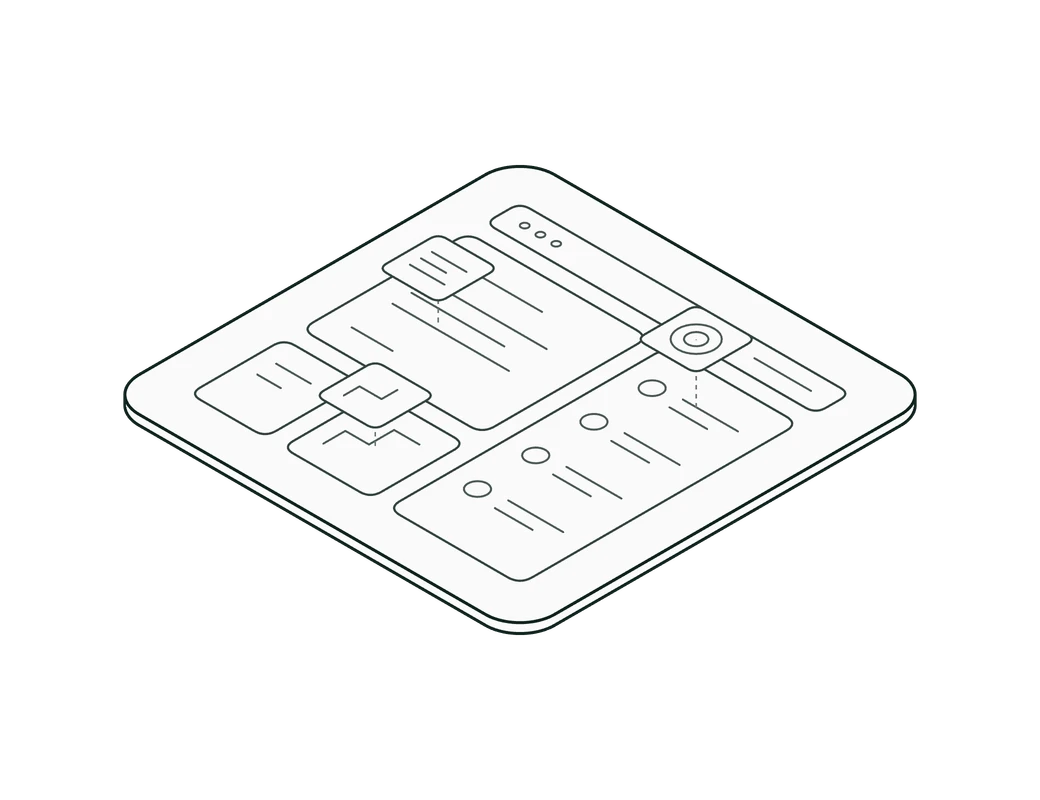
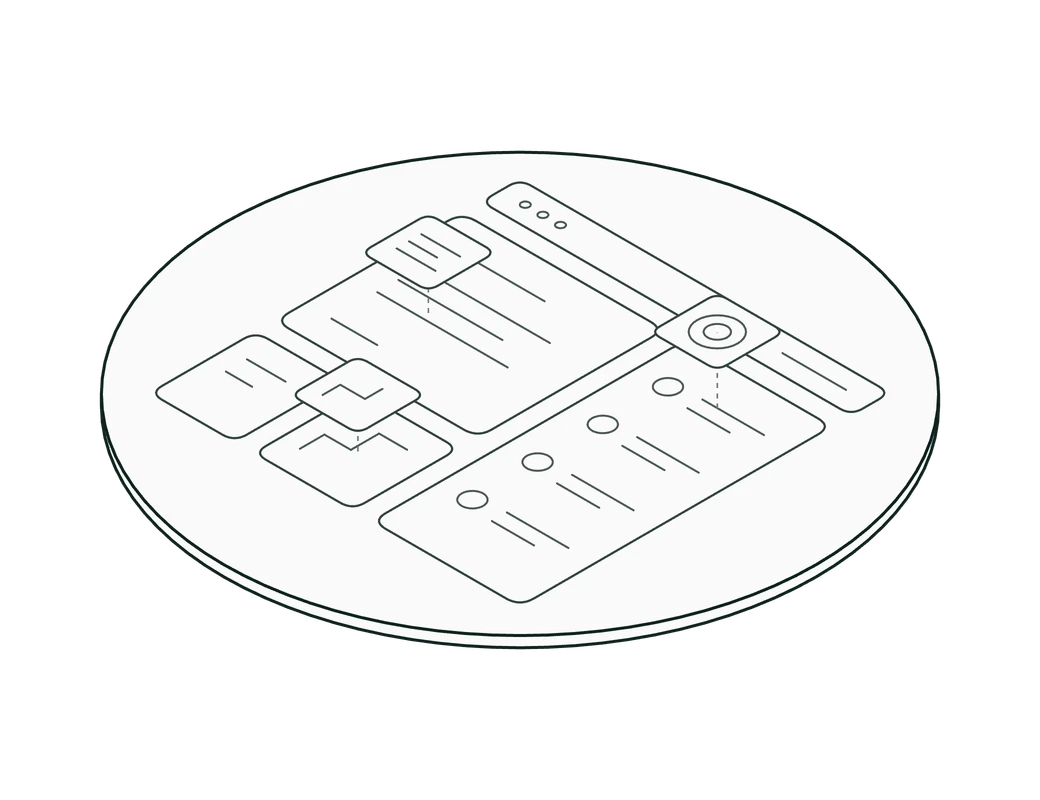
Make operating model planes circular

diff --git a/src/components/home/operating-model-three.ts b/src/components/home/operating-model-three.ts
@@ -2,8 +2,8 @@ import { gsap } from 'gsap';
 import { ScrollTrigger } from 'gsap/ScrollTrigger';
 import { ScrollSmoother } from 'gsap/ScrollSmoother';
 import {
-  Color, DynamicDrawUsage, ExtrudeGeometry, InstancedMesh, Matrix4, Mesh, MeshBasicMaterial, OrthographicCamera,
-  Path, Raycaster, Scene, Shape, ShapeGeometry, Vector2, Vector3, WebGLRenderer,
+  CircleGeometry, Color, DynamicDrawUsage, ExtrudeGeometry, InstancedMesh, Matrix4, Mesh, MeshBasicMaterial, OrthographicCamera,
+  Path, Raycaster, Scene, Shape, Vector2, Vector3, WebGLRenderer,
 } from 'three';
 import { Line2 } from 'three/addons/lines/Line2.js';
 import { LineGeometry } from 'three/addons/lines/LineGeometry.js';
@@ -33,7 +33,7 @@ type DiagramOptions = {
   scroll?: boolean;
   /** Extra pinned scroll after the last layer, in viewport heights, for exit transitions. */
   tail?: number;
-  /** Show one plane only (0 waveform, 1 workflow, 2 interface, 3 logo) for still renders. */
+  /** Show one plane only (0 dots, 1 workflow, 2 interface, 3 logo) for still renders. */
   isolate?: number;
   /** Keep the drawing buffer so the canvas can be exported (toDataURL). */
   capture?: boolean;
@@ -63,8 +63,8 @@ export function mountOperatingModel(element: HTMLElement, options: DiagramOption
   camera.position.set(6, 6, 6);
   camera.lookAt(0, 0, 0);
 
-  const halfSize = 1.32;
-  const fillet = .22;
+  const planeRadius = 1.68;
+  const perimeterRadius = planeRadius + .18;
   const thickness = .06;
   const material = new LineMaterial({ color: colors.ink, linewidth: 1.5, depthTest: true, depthWrite: true, alphaToCoverage: false, transparent: false });
   const fill = new MeshBasicMaterial({
@@ -74,23 +74,15 @@ export function mountOperatingModel(element: HTMLElement, options: DiagramOption
     polygonOffset: true, polygonOffsetFactor: 4, polygonOffsetUnits: 4,
   });
   const shape = new Shape();
-  const s = halfSize, r = fillet;
-  shape.moveTo(-s + r, -s);
-  shape.lineTo(s - r, -s);
-  shape.absarc(s - r, -s + r, r, -Math.PI / 2, 0, false);
-  shape.lineTo(s, s - r);
-  shape.absarc(s - r, s - r, r, 0, Math.PI / 2, false);
-  shape.lineTo(-s + r, s);
-  shape.absarc(-s + r, s - r, r, Math.PI / 2, Math.PI, false);
-  shape.lineTo(-s, -s + r);
-  shape.absarc(-s + r, -s + r, r, Math.PI, Math.PI * 1.5, false);
+  shape.absarc(0, 0, planeRadius, 0, Math.PI * 2, false);
   shape.closePath();
 
-  const solid = new ExtrudeGeometry(shape, { depth: thickness, bevelEnabled: false, curveSegments: 24 });
+  const extrusion = { depth: thickness, bevelEnabled: false, curveSegments: 48 };
+  const solid = new ExtrudeGeometry(shape, extrusion);
   solid.rotateX(-Math.PI / 2);
   solid.translate(0, -thickness / 2, 0);
   const cutoutShape = shape.clone();
-  const logoScale = halfSize * 2 * .8 / 440;
+  const logoScale = planeRadius * 1.25 / 440;
   const logoContours = new SVGLoader().parse(logoMarkSvg).paths
     .flatMap(path => SVGLoader.createShapes(path))
     .map(mark => mark.getPoints(48).map(point => ({
@@ -108,7 +100,7 @@ export function mountOperatingModel(element: HTMLElement, options: DiagramOption
     hole.closePath();
     cutoutShape.holes.push(hole);
   });
-  const cutoutSolid = new ExtrudeGeometry(cutoutShape, { depth: thickness, bevelEnabled: false, curveSegments: 24 });
+  const cutoutSolid = new ExtrudeGeometry(cutoutShape, extrusion);
   cutoutSolid.rotateX(-Math.PI / 2);
   cutoutSolid.translate(0, -thickness / 2, 0);
 
@@ -152,36 +144,28 @@ export function mountOperatingModel(element: HTMLElement, options: DiagramOption
     outlines.push({ line, kind, surface, fade: { opacity: index === 3 ? 1 : .18, lift: 0 } });
   }
 
-  const iris = getComputedStyle(element).getPropertyValue('--palette-iris').trim() || '#A77BCA';
-  // A voice waveform on the infrastructure layer uses the same visual cue as the PyAI demo.
-  const barShape = new Shape();
-  barShape.absarc(0, -.29, .21, Math.PI, 2 * Math.PI, false);
-  barShape.absarc(0, .29, .21, 0, Math.PI, false);
-  barShape.closePath();
-  const waveGeometry = new ShapeGeometry(barShape, 8);
-  waveGeometry.rotateX(-Math.PI / 2);
-  const waveMaterial = new MeshBasicMaterial({ color: colors.ink, depthTest: true, depthWrite: true });
-  const amplitudes = [.09, .17, .28, .21, .38, .63, .90, .53, .33, .46, .68, .86, 1, .58, .35, .63, .82, .44, .29, .51, .66, .32, .21, .13, .07];
-  const waveform = new InstancedMesh(waveGeometry, waveMaterial, amplitudes.length);
-  const barTransform = new Matrix4();
-  waveform.visible = false;
-  waveform.position.set(.15, 0, .23);
-  waveform.instanceMatrix.setUsage(DynamicDrawUsage);
-  waveform.renderOrder = 1;
-  outlines[0].surface.add(waveform);
-
-  function updateWaveform(pulse = -1) {
-    amplitudes.forEach((height, index) => {
-      const progress = index / (amplitudes.length - 1);
-      const lift = 1 + .24 * Math.exp(-(((progress - pulse) / .13) ** 2));
-      barTransform.makeScale(.13, 1, height * 1.22 * lift);
-      barTransform.setPosition((progress - .5) * 1.96, thickness / 2 + .003, 0);
-      waveform.setMatrixAt(index, barTransform);
-    });
-    waveform.instanceMatrix.needsUpdate = true;
+  // Surface-mounted dots share the bottom slab's transform and depth occlusion.
+  const dotGeometry = new CircleGeometry(.012, 20);
+  dotGeometry.rotateX(-Math.PI / 2);
+  const dotMaterial = new MeshBasicMaterial({ color: colors.ink, depthTest: true, depthWrite: true });
+  const dotGrid = new InstancedMesh(dotGeometry, dotMaterial, 13 * 13);
+  dotGrid.visible = false;
+  dotGrid.instanceMatrix.setUsage(DynamicDrawUsage);
+  const dotTransform = new Matrix4();
+  const dotPositions: { x: number; z: number; radius: number }[] = [];
+  for (let row = 0; row < 13; row++) {
+    for (let column = 0; column < 13; column++) {
+      const x = (column - 6) * .175, z = (row - 6) * .175;
+      dotPositions.push({ x, z, radius: Math.hypot(x, z) });
+      dotTransform.makeTranslation(x, thickness / 2 + .001, z);
+      dotGrid.setMatrixAt(row * 13 + column, dotTransform);
+    }
   }
-  updateWaveform();
+  dotGrid.instanceMatrix.needsUpdate = true;
+  dotGrid.renderOrder = 1;
+  outlines[0].surface.add(dotGrid);
 
+  const iris = getComputedStyle(element).getPropertyValue('--palette-iris').trim() || '#A77BCA';
   const flowPaths = createFlowPaths(outlines[1].surface, thickness, iris, colors);
   const uiDiagram = createUiDiagram(outlines[2].surface, thickness, colors);
 
@@ -204,14 +188,16 @@ export function mountOperatingModel(element: HTMLElement, options: DiagramOption
   perimeter.visible = false;
   scene.add(perimeter);
   let perimeterLength = 0;
+  const rimSegments = 96;
+  const perimeterRim = Array.from({ length: rimSegments }, (_, index) => {
+    const angle = index * 2 * Math.PI / rimSegments;
+    return new Vector2(perimeterRadius * Math.cos(angle), perimeterRadius * Math.sin(angle));
+  });
   function updatePerimeter() {
     camera.updateMatrixWorld();
-    const extent = halfSize + .18;
     const top = 1.5 * (thickness + 1.25 * scrollState.spread) + thickness / 2 + .16;
-    const projected: Vector3[] = [];
-    for (const x of [-extent, extent]) for (const y of [-top, top]) for (const z of [-extent, extent]) {
-      projected.push(new Vector3(x, y, z).applyMatrix4(camera.matrixWorldInverse));
-    }
+    const projected = [-top, top].flatMap(y => perimeterRim.map(({ x, y: z }) =>
+      new Vector3(x, y, z).applyMatrix4(camera.matrixWorldInverse)));
     projected.sort((a, b) => a.x - b.x || a.y - b.y);
     const cross = (a: Vector3, b: Vector3, c: Vector3) => (b.x - a.x) * (c.y - a.y) - (b.y - a.y) * (c.x - a.x);
     const halfHull = (points: Vector3[]) => {
@@ -225,34 +211,14 @@ export function mountOperatingModel(element: HTMLElement, options: DiagramOption
     const hull = [...halfHull(projected), ...halfHull([...projected].reverse())].reverse();
     const start = hull.reduce((best, point, index) => point.y > hull[best].y ? index : best, 0);
     const ordered = [...hull.slice(start), ...hull.slice(0, start)];
-    const corners = ordered.map((point, index) => {
-      const previous = ordered[(index + ordered.length - 1) % ordered.length];
-      const next = ordered[(index + 1) % ordered.length];
-      const before = Math.hypot(previous.x - point.x, previous.y - point.y);
-      const after = Math.hypot(next.x - point.x, next.y - point.y);
-      const inset = Math.min(.24, before / 3, after / 3);
-      return {
-        point,
-        entry: point.clone().lerp(previous, inset / before),
-        exit: point.clone().lerp(next, inset / after),
-      };
-    });
-    const roundedPath = new Path();
-    const last = corners[corners.length - 1].exit;
-    roundedPath.moveTo(last.x, last.y);
-    for (const { point, entry, exit } of corners) {
-      roundedPath.lineTo(entry.x, entry.y);
-      roundedPath.quadraticCurveTo(point.x, point.y, exit.x, exit.y);
-    }
-    roundedPath.closePath();
-    const roundedPoints = roundedPath.getPoints(24);
+    const closed = [...ordered, ordered[0]];
     perimeter.geometry.dispose();
-    perimeter.geometry = new LineGeometry().setPositions(roundedPoints.flatMap(point => [point.x, point.y, 0]));
+    perimeter.geometry = new LineGeometry().setPositions(closed.flatMap(point => [point.x, point.y, 0]));
     perimeter.quaternion.copy(camera.quaternion);
-    if (scrollState.shadow > 0) outlineShadow.update(roundedPoints, ordered, camera.quaternion);
+    if (scrollState.shadow > 0) outlineShadow.update(ordered, camera.quaternion);
     perimeter.computeLineDistances();
-    perimeterLength = roundedPoints.slice(1).reduce((length, point, index) =>
-      length + point.distanceTo(roundedPoints[index]), 0);
+    perimeterLength = closed.slice(1).reduce((length, point, index) =>
+      length + Math.hypot(point.x - closed[index].x, point.y - closed[index].y), 0);
     drawDistance.value = perimeterLength * scrollState.perimeter;
   }
 
@@ -292,12 +258,20 @@ export function mountOperatingModel(element: HTMLElement, options: DiagramOption
   const marchingDashes = gsap.to(perimeterMaterial, {
     dashOffset: -.14, duration: 1.2, repeat: -1, ease: 'none', paused: true, onUpdate: render,
   });
-  const ripple = { progress: -.25 };
-  const voiceWave = gsap.to(ripple, {
-    progress: 1.25, duration: 2.7, repeat: -1, repeatDelay: .3, ease: 'none', paused: true,
+  const ripple = { radius: -.4 };
+  const dotWave = gsap.to(ripple, {
+    radius: 1.9, duration: 2.7, repeat: -1, repeatDelay: .3, ease: 'none', paused: true,
     onUpdate: () => {
       if (disposed) return;
-      updateWaveform(ripple.progress);
+      dotPositions.forEach(({ x, z, radius }, index) => {
+        const pulse = Math.exp(-(((radius - ripple.radius) / .17) ** 2));
+        const scale = 1 + 1.5 * pulse;
+        dotTransform.makeScale(scale, 1, scale);
+        dotTransform.setPosition(x, thickness / 2 + .001, z);
+        dotGrid.setMatrixAt(index, dotTransform);
+      });
+      dotGrid.instanceMatrix.needsUpdate = true;
+      stageElement.dataset.dotWave = ripple.radius.toFixed(3);
       render();
     },
   });
@@ -319,7 +293,7 @@ export function mountOperatingModel(element: HTMLElement, options: DiagramOption
   const syncDashMotion = () => {
     const paused = document.hidden || !inView || reducedMotion;
     marchingDashes.paused(scrollState.perimeter <= 0 || paused);
-    voiceWave.paused(scrollState.spread <= 0 || paused);
+    dotWave.paused(scrollState.spread <= 0 || paused);
     flowLoop.paused(scrollState.spread <= 0 || paused);
   };
   document.addEventListener('visibilitychange', syncDashMotion);
@@ -333,8 +307,8 @@ export function mountOperatingModel(element: HTMLElement, options: DiagramOption
       surface.position.y = line.position.y = isolate === index ? 0 : (index - 1.5) * spacing + fade.lift;
       line.material.color.copy(paperTone).lerp(inkTone, fade.opacity).convertSRGBToLinear();
     });
-    waveform.visible = scrollState.designs > 0;
-    waveMaterial.color.copy(paperTone).lerp(inkTone, outlines[0].fade.opacity * scrollState.designs).convertSRGBToLinear();
+    dotGrid.visible = scrollState.designs > 0;
+    dotMaterial.color.copy(paperTone).lerp(inkTone, outlines[0].fade.opacity * scrollState.designs).convertSRGBToLinear();
     flowPaths.setOpacity(outlines[1].fade.opacity * scrollState.designs);
     uiDiagram.setOpacity(outlines[2].fade.opacity * scrollState.designs);
     uiDiagram.setExpansion(scrollState.spread);
@@ -368,7 +342,6 @@ export function mountOperatingModel(element: HTMLElement, options: DiagramOption
     const aspect = width / height;
     // Reserve the complete perimeter before its first dash is drawn. Fit in
     // camera space so tilting, lifted layers, and narrow canvases stay safe.
-    const extent = halfSize + .18;
     const perimeterTop = 1.5 * (thickness + 1.25 * scrollState.spread) + thickness / 2 + .16;
     const lower = isolate !== undefined ? -thickness / 2
       : Math.min(-perimeterTop, ...outlines.map(({ surface }) => surface.position.y - thickness / 2));
@@ -376,13 +349,9 @@ export function mountOperatingModel(element: HTMLElement, options: DiagramOption
       : Math.max(perimeterTop, ...outlines.map(({ surface }, index) =>
         surface.position.y + thickness / 2 + (index === 2 ? .38 * scrollState.spread + .005 : 0)));
     camera.updateMatrixWorld();
-    const point = new Vector3();
-    let projectedX = 0, projectedY = 0;
-    for (const x of [-extent, extent]) for (const y of [lower, upper]) for (const z of [-extent, extent]) {
-      point.set(x, y, z).applyMatrix4(camera.matrixWorldInverse);
-      projectedX = Math.max(projectedX, Math.abs(point.x));
-      projectedY = Math.max(projectedY, Math.abs(point.y));
-    }
+    const view = camera.matrixWorldInverse.elements;
+    const projectedX = perimeterRadius * Math.hypot(view[0], view[8]) + Math.max(Math.abs(view[4] * lower + view[12]), Math.abs(view[4] * upper + view[12]));
+    const projectedY = perimeterRadius * Math.hypot(view[1], view[9]) + Math.max(Math.abs(view[5] * lower + view[13]), Math.abs(view[5] * upper + view[13]));
     const padding = Math.min(24, width * .08, height * .08);
     const halfHeight = Math.max(
       isolate !== undefined ? 0 : 2.8 + .45 * scrollState.perimeter,
@@ -579,7 +548,7 @@ export function mountOperatingModel(element: HTMLElement, options: DiagramOption
     canvas.removeEventListener('pointerleave', cancelPointer);
     animation.revert();
     marchingDashes.kill();
-    voiceWave.kill();
+    dotWave.kill();
     flowLoop.kill(); flowPaths.dispose();
     uiDiagram.dispose();
     document.removeEventListener('visibilitychange', syncDashMotion);
@@ -592,7 +561,7 @@ export function mountOperatingModel(element: HTMLElement, options: DiagramOption
     controls.dispose();
     renderer.domElement.removeEventListener('dblclick', resetView);
     outlines.forEach(({ line }) => { line.geometry.dispose(); line.material.dispose(); });
-    waveform.dispose(); waveGeometry.dispose(); waveMaterial.dispose();
+    dotGrid.dispose(); dotGeometry.dispose(); dotMaterial.dispose();
     solid.dispose(); cutoutSolid.dispose(); material.dispose(); fill.dispose();
     renderer.dispose(); renderer.forceContextLoss(); renderer.domElement.remove();
     },

diff --git a/src/components/home/operating-model-diagram/outline-shadow.ts b/src/components/home/operating-model-diagram/outline-shadow.ts
@@ -1,6 +1,8 @@
-import { Color, Mesh, Quaternion, ShaderMaterial, Shape, ShapeGeometry, Vector2, Vector3 } from 'three';
+import { BufferGeometry, Color, Float32BufferAttribute, Mesh, Quaternion, ShaderMaterial, Vector2, Vector3 } from 'three';
 
-/** A soft inset wash, clipped to the same rounded silhouette as the dashes. */
+const shadowDepth = .5;
+
+/** A soft inset wash following the projected rim of the stack. */
 export function createOutlineShadow(color: string) {
   const material = new ShaderMaterial({
     transparent: true,
@@ -9,55 +11,59 @@ export function createOutlineShadow(color: string) {
     uniforms: {
       iris: { value: new Color(color) },
       strength: { value: 0 },
-      edgeCount: { value: 0 },
-      starts: { value: Array.from({ length: 8 }, () => new Vector2()) },
-      ends: { value: Array.from({ length: 8 }, () => new Vector2()) },
     },
     vertexShader: `
-      varying vec2 localPoint;
+      attribute float edgeDistance;
+      varying float distanceToEdge;
       void main() {
-        localPoint = position.xy;
+        distanceToEdge = edgeDistance;
         gl_Position = projectionMatrix * modelViewMatrix * vec4(position, 1.0);
       }
     `,
     fragmentShader: `
       uniform vec3 iris;
       uniform float strength;
-      uniform int edgeCount;
-      uniform vec2 starts[8];
-      uniform vec2 ends[8];
-      varying vec2 localPoint;
+      varying float distanceToEdge;
       void main() {
-        float distanceToEdge = 100.0;
-        for (int i = 0; i < 8; i++) {
-          if (i >= edgeCount) break;
-          vec2 edge = ends[i] - starts[i];
-          vec2 offset = localPoint - starts[i];
-          float along = clamp(dot(offset, edge) / dot(edge, edge), 0.0, 1.0);
-          distanceToEdge = min(distanceToEdge, length(offset - edge * along));
-        }
         float shadow = exp(-pow(distanceToEdge / 0.17, 1.5));
         gl_FragColor = vec4(iris, shadow * strength * 0.22);
         #include <colorspace_fragment>
       }
     `,
   });
-  const mesh = new Mesh(new ShapeGeometry(), material);
+  const mesh = new Mesh(new BufferGeometry(), material);
   mesh.renderOrder = 3;
   mesh.visible = false;
 
   return {
     mesh,
-    update(points: Vector2[], corners: Vector3[], rotation: Quaternion) {
-      mesh.geometry.dispose();
-      mesh.geometry = new ShapeGeometry(new Shape(points));
-      mesh.quaternion.copy(rotation);
-      material.uniforms.edgeCount.value = corners.length;
-      corners.forEach((point, index) => {
-        const next = corners[(index + 1) % corners.length];
-        material.uniforms.starts.value[index].set(point.x, point.y);
-        material.uniforms.ends.value[index].set(next.x, next.y);
+    update(rim: Vector3[], rotation: Quaternion) {
+      const positions: number[] = [];
+      const distances: number[] = [];
+      const indices: number[] = [];
+      // Inward normals form a strip on the clockwise rim, so the wash stays
+      // inside the curve without evaluating every edge for every pixel.
+      rim.forEach((point, index) => {
+        const previous = rim[(index + rim.length - 1) % rim.length];
+        const nextIndex = (index + 1) % rim.length;
+        const next = rim[nextIndex];
+        const incoming = new Vector2(point.y - previous.y, previous.x - point.x).normalize();
+        const outgoing = new Vector2(next.y - point.y, point.x - next.x).normalize();
+        const inset = incoming.clone().add(outgoing).multiplyScalar(shadowDepth / (1 + incoming.dot(outgoing)));
+        positions.push(point.x, point.y, 0, point.x + inset.x, point.y + inset.y, 0);
+        distances.push(0, shadowDepth);
+        const outer = index * 2;
+        const nextOuter = nextIndex * 2;
+        indices.push(outer, outer + 1, nextOuter, nextOuter, outer + 1, nextOuter + 1);
       });
+
+      const geometry = new BufferGeometry();
+      geometry.setAttribute('position', new Float32BufferAttribute(positions, 3));
+      geometry.setAttribute('edgeDistance', new Float32BufferAttribute(distances, 1));
+      geometry.setIndex(indices);
+      mesh.geometry.dispose();
+      mesh.geometry = geometry;
+      mesh.quaternion.copy(rotation);
     },
     setStrength(strength: number) {
       material.uniforms.strength.value = strength;

diff --git a/src/components/home/operating-model.module.css b/src/components/home/operating-model.module.css
@@ -15,7 +15,7 @@
 .art { position:relative; }
 .art > canvas { display:block; position:absolute; inset:0; width:100%; height:100%; touch-action:pan-y; }
 .sceneFallback { position:absolute; inset:12% 16%; display:flex; flex-direction:column; justify-content:space-around; }
-.sceneFallback i { display:block; width:100%; height:22%; border:1px solid var(--diagram-ink); border-radius:12%; background:var(--diagram-fill,var(--diagram-surface)); transform:rotate(-30deg) skewX(30deg) scaleY(.65); }
+.sceneFallback i { display:block; width:100%; height:22%; border:1px solid var(--diagram-ink); border-radius:50%; background:var(--diagram-fill,var(--diagram-surface)); }
 .art[data-ready='true'] .sceneFallback { visibility:hidden; }
 .art[data-active='0'] .sceneFallback i:nth-child(3), .art[data-active='1'] .sceneFallback i:nth-child(2), .art[data-active='2'] .sceneFallback i:nth-child(1), .art[data-active='3'] .sceneFallback i { border-color:var(--palette-iris-light); background:var(--diagram-fill,var(--diagram-surface)); }
 .accordion { --color-foreground:var(--palette-cream); --color-muted-foreground:color-mix(in srgb,var(--palette-cream) 65%,var(--diagram-surface)); --color-secondary:color-mix(in srgb,var(--palette-cream) 10%,transparent); --color-secondary-foreground:var(--palette-cream); --color-ring:var(--palette-cream); display:grid; gap:8px; min-width:0; color:var(--color-foreground); }
